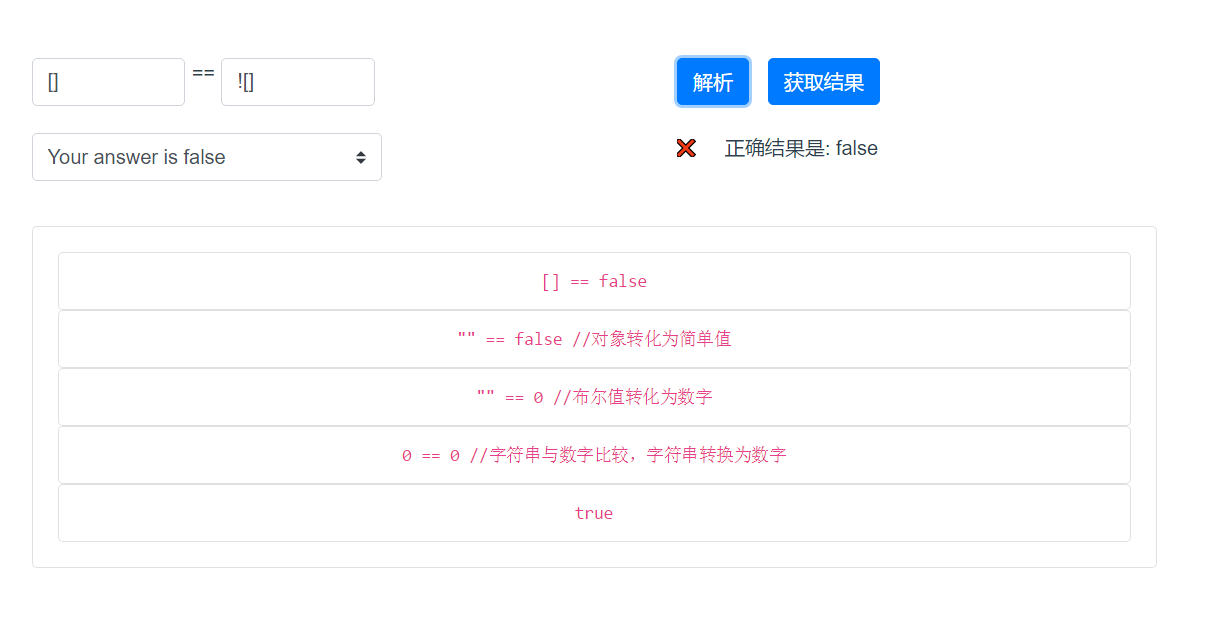
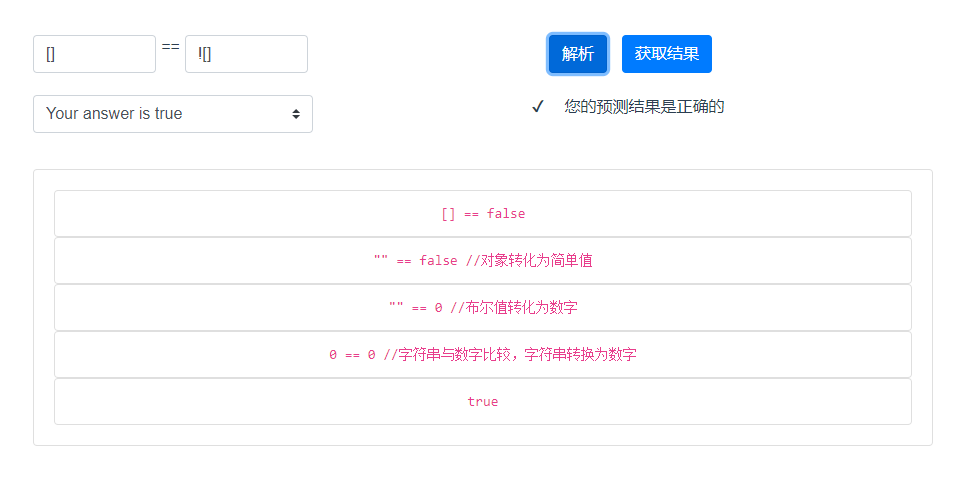
在错误情况下正确结果提示错误；截图更新

diff --git a/parser/src/components/Parse.vue b/parser/src/components/Parse.vue
@@ -210,11 +210,11 @@ export default {
       if (res === this.preValue) {
         this.resTag = "✔";
         this.resNote = false;
-        this.res = true;
+        this.res = res;
       } else {
         this.resTag = "❌";
         this.resNote = true;
-        this.res = false;
+        this.res = res;
       }
     },
     toPrimitive(obj) {
